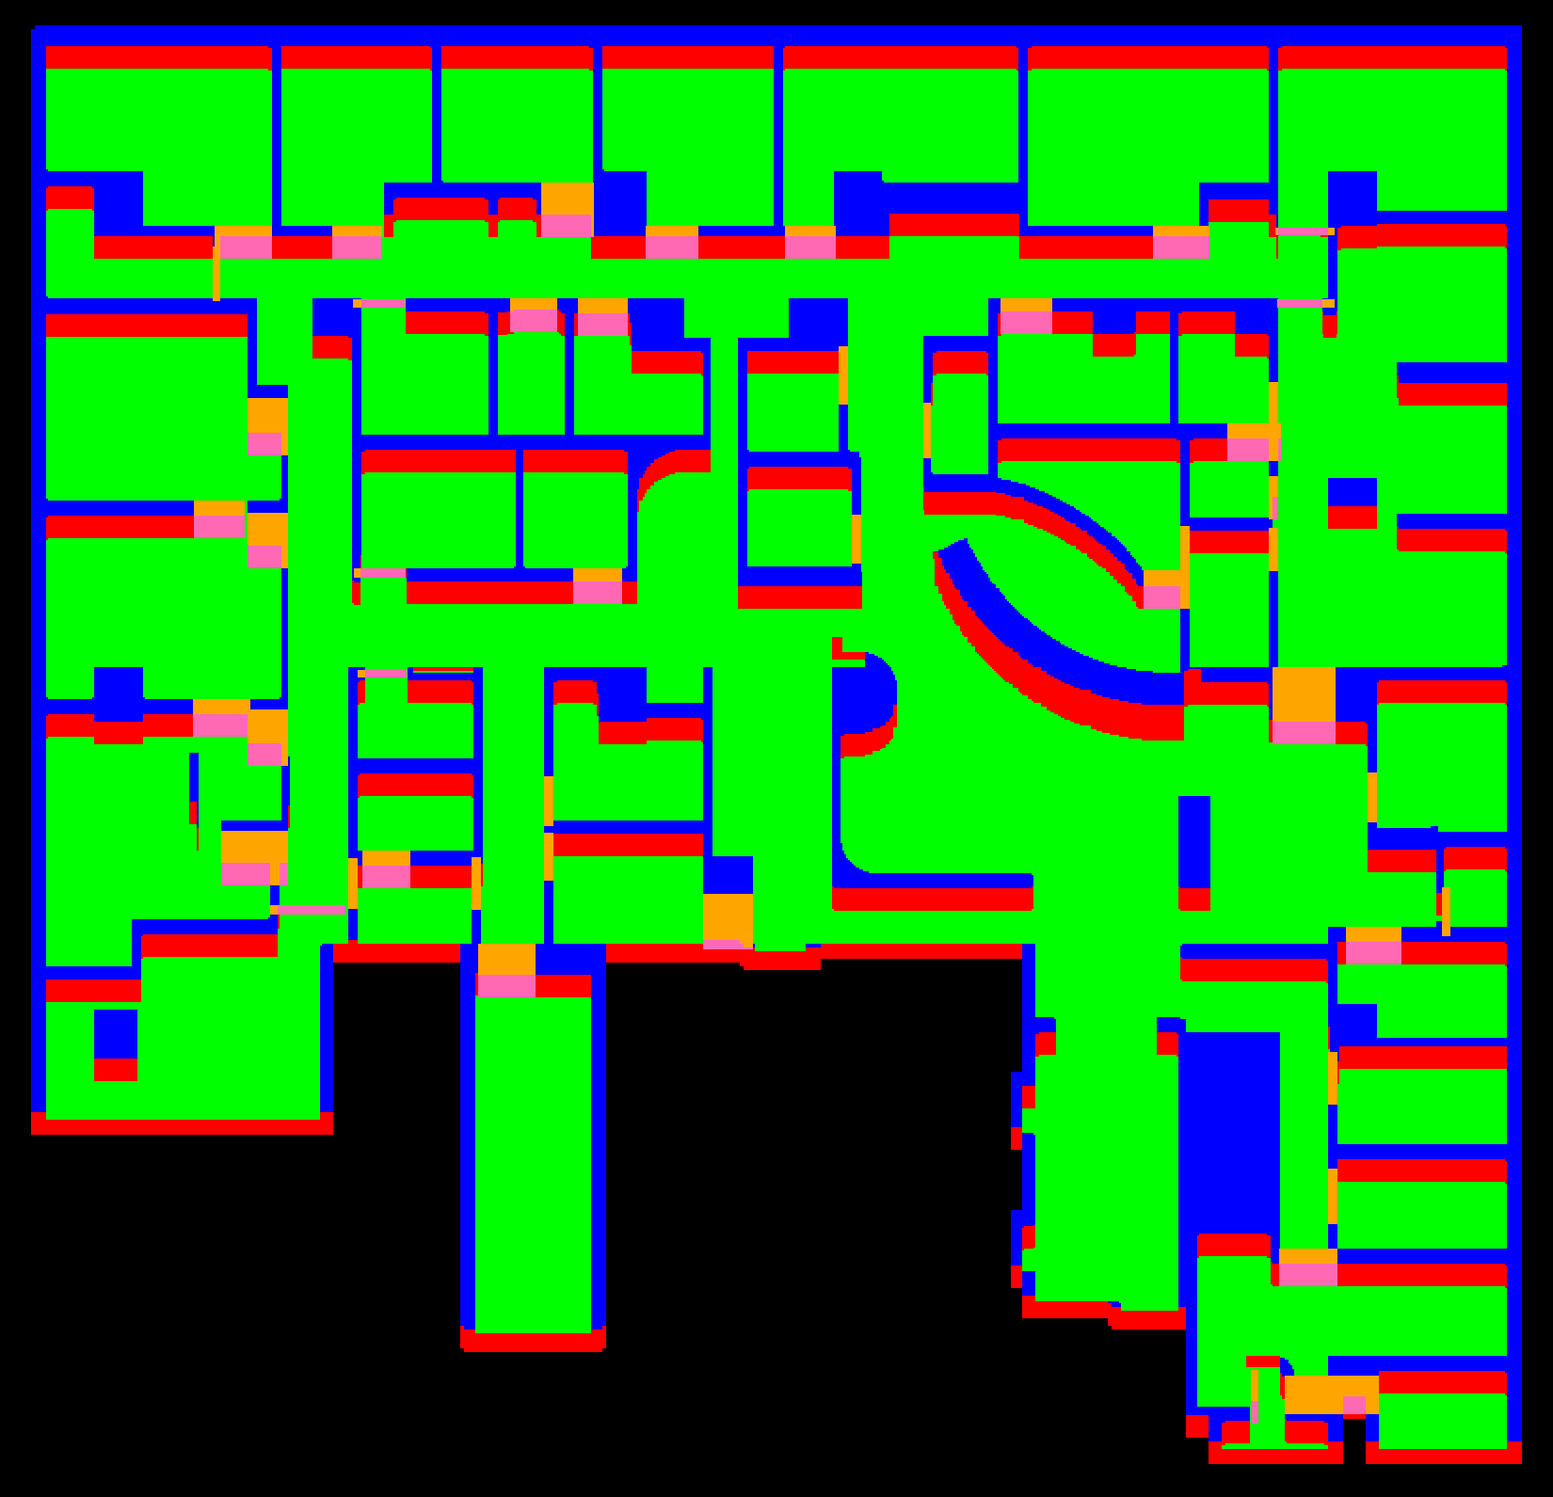
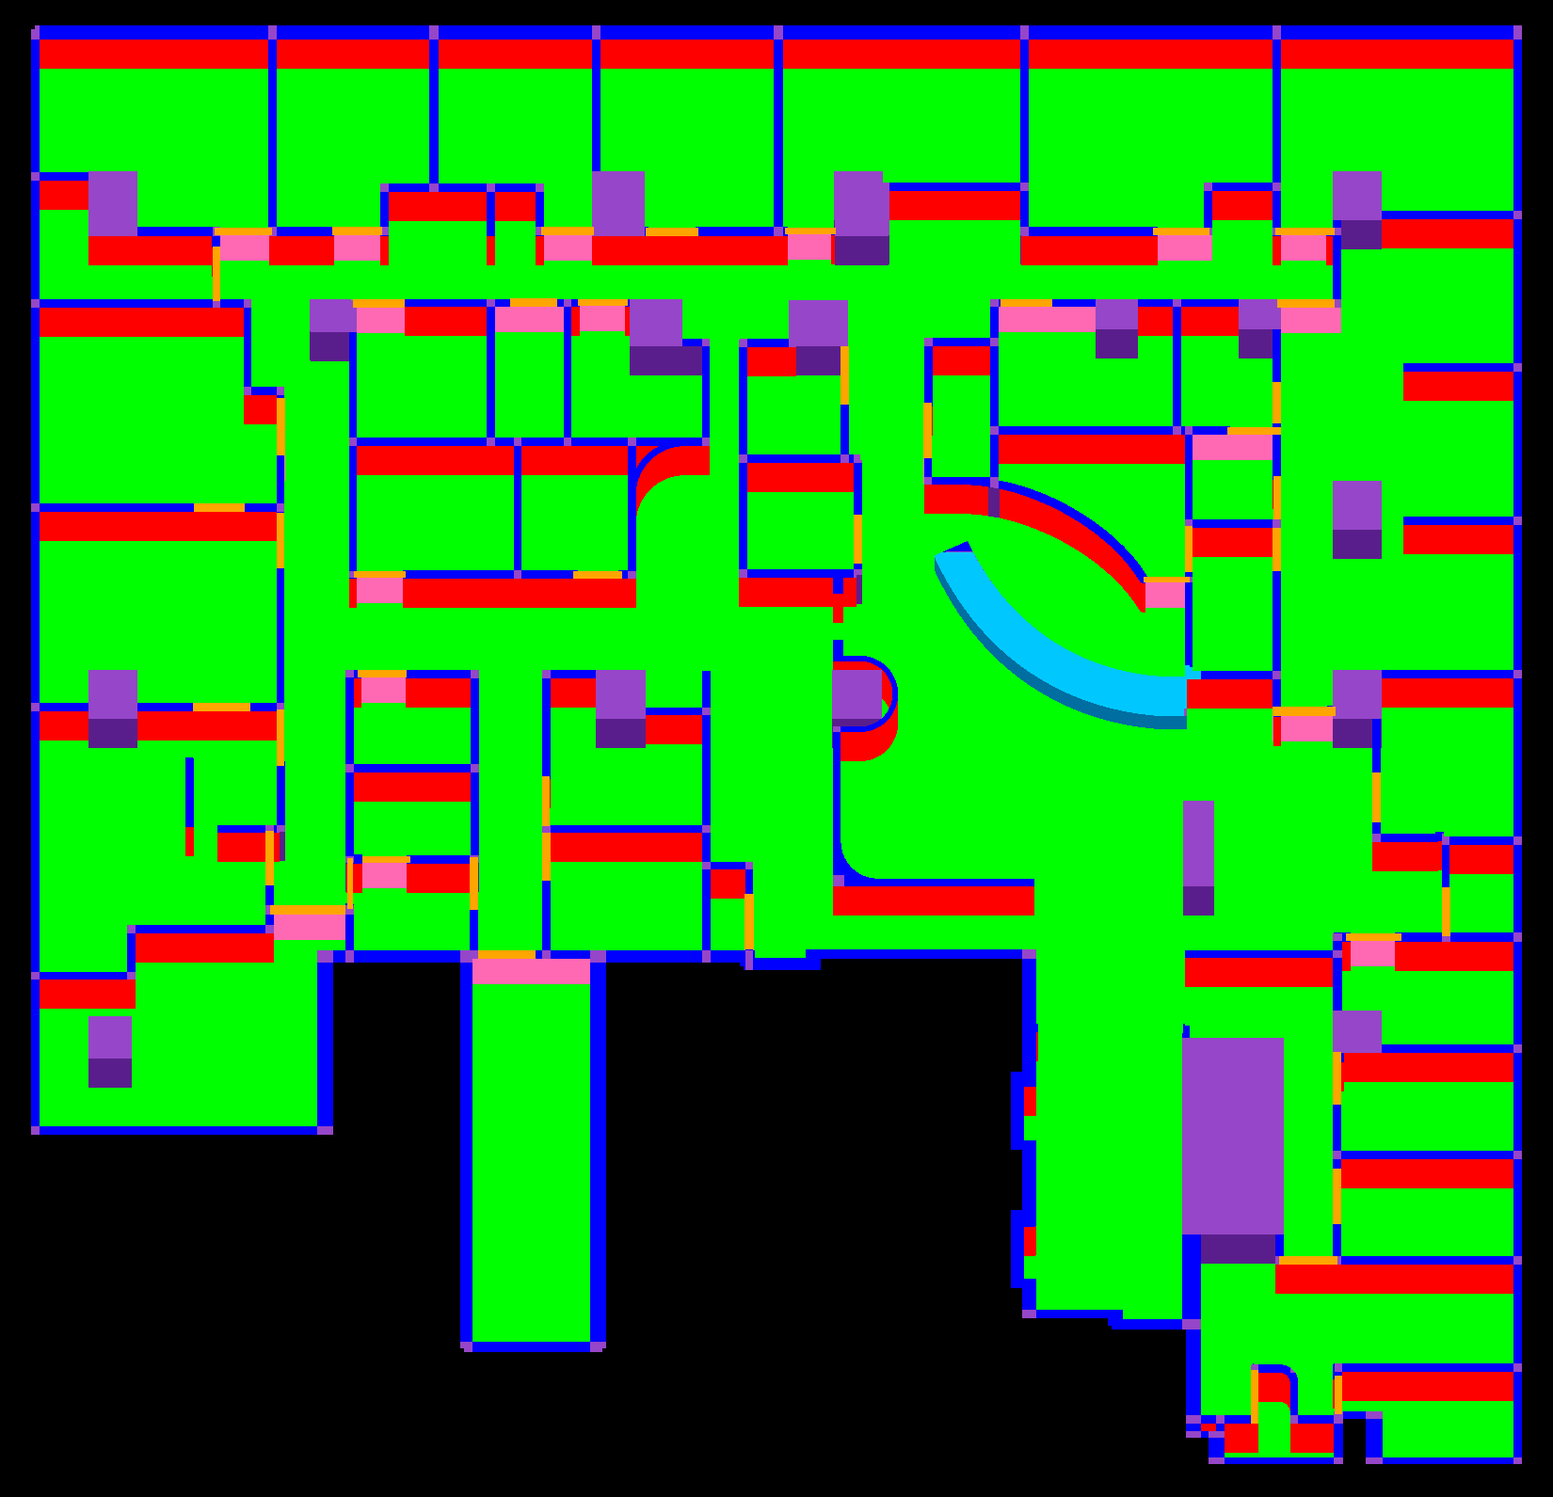
원내 색 지도를 우리 파이프라인 모델로 — 2D 도면에서 골조를 읽고 높이로 밀어낸다
tiling-map.png 은 손그림 2.5D(wall-mask.png, 벽 40px = 648mm)를 윗면/정면으로 갈라 쓰는
옛 모델이었다. blueprint-extract.py 가 쓰는 모델(깊이 = 높이 x 투영계수)과 달라서 같은
건물인데 두 도구가 다른 그림을 냈다.

plan-to-tiling.py: 벡터 PDF 대신 **2D 도면 래스터**를 입구로 쓴다. 레이어 분리(①)와 문
잇기(⑤)는 이미 끝나 있다 — floorplan-door.png 이 도면 + 사람이 칠한 빨강 문막대다.
그래서 ②③⑥⑦ 만 돈다. 방 판정 게이트는 그대로 두고 실패하면 exit 2.

⚠ 처음에 색으로 부류를 갈랐다가 틀렸다. 이 도면은 구조를 **어두운 외곽선 + 회색 채움**
으로 그린다. 회색을 샤프트로, 어두운 선을 벽으로 잡으니 **벽 속이 보라색**이 됐다 —
벽도 같은 방식으로 그려져 있다. 외곽선은 자기가 감싼 것에 속한다. 그래서 흰색이 아니면
다 골조로 묶고 ③의 두께 규칙으로 갈랐다.

고트의원 실측 (1650x1591, 16.2mm/px):
  ② 골조 11.5% 79m² (문 6m²)
  ③ 벽 49m² · 샤프트 21m² (500mm 초과) · 데스크 3m²
  ⑥ 방 39개 430m²  ← 손그림 마스크의 38개와 맞는다. 첫 실행에 게이트 통과
  ⑦ 벽 31px · 문 27px · 샤프트 31px · 데스크 14px

곡선 골조의 톱니가 사라졌다. 원인은 규칙이 아니라 입력이었다 — 손그림이 곡선 정면을
세로 획으로 그렸고, 2D 도면은 같은 자리를 매끈한 띠로 그린다. 도면을 입구로 쓰니 빗살
메우기(--close-slits)가 필요 없어졌다.

테스트 178개 통과. tiling-map.png 은 코드가 읽지 않는 산출물이라 런타임 영향 없다.

diff --git a/tools/plan-to-tiling.py b/tools/plan-to-tiling.py
@@ -1,0 +1,298 @@
+#!/usr/bin/env python3
+"""사람이 문까지 칠한 2D 도면 → 2.5D 색 지도. (`blueprint-extract.py` 의 ②~⑦ 를 래스터로)
+
+    python tools/plan-to-tiling.py                    # 원내 설정 폴더에 바로 쓴다
+    python tools/plan-to-tiling.py --dry-run --out-dir <폴더>
+
+## 이 도구가 서 있는 자리
+
+`blueprint-extract.py` 는 **벡터 PDF + CAD 레이어** 를 받아 ①레이어 분리부터 돈다. 이
+도구는 그 앞 두 단계(레이어 분리, 문 잇기)가 **이미 끝나 있을 때** 쓴다:
+
+    floorplan-door.png = 2D 도면 + 사람이 칠한 빨강 문막대(#ED1C24)
+
+즉 ⑤ 문 잇기를 사람이 손으로 확정한 상태다. 추측이 없으니 ②③⑥⑦ 만 돌리면 된다.
+
+## 왜 이 래스터는 받아도 되는가
+
+`blueprint-extract.py` 는 래스터를 **거부한다** — 스캔은 벽과 가구가 같은 얇은 선이라
+두께로 가릴 수 없고, 억지로 뽑으면 테두리와 기둥만 나온 그림이 그럴듯해서 한참 뒤에
+틀린 걸 발견한다(실제로 그랬다).
+
+이 파일은 스캔이 아니다. 벡터에서 뽑은 **색이 양자화된** 도면이라 골조와 바닥이 색으로
+정확히 갈린다:
+
+    흰 (255)         바닥 — 유일하게 비어 있는 색
+    그 밖의 모든 색   골조. 이 도면은 구조를 **어두운 외곽선 + 회색 채움**으로 그린다
+    빨강 (237,28,36) 문 — 사람이 칠한 것
+
+⚠ **외곽선과 채움을 색으로 가르면 안 된다.** 처음에 회색을 샤프트로, 어두운 선을 벽으로
+   잡았다가 벽 속이 보라색이 됐다 — 벽도 회색 채움에 어두운 외곽선이라 같은 규칙에 걸린다.
+   외곽선은 자기가 감싼 것에 속한다. 그래서 **흰색이 아니면 다 골조**로 묶고, 부류는
+   아래 ③에서 두께로 가른다 (`blueprint-extract.py` 와 같은 규칙).
+
+## 정면 깊이는 두께가 아니라 높이에서 나온다
+
+`wall-standards.json` 의 `heights` 를 쓴다. 146mm 가벽과 300mm 구조벽은 둘 다 천장까지
+올라가므로 겉보기 높이가 같다 — 두께 배수로 잡았다가 얇은 벽이 낮아져 갈아엎었다.
+
+    깊이 = 실제 높이(mm) x projectionFactor / mmPerPx
+
+## 게이트
+
+⑥ 방 판정이 실패하면(방이 1개 이하) **0 이 아닌 코드로 멈춘다.** 방이 갈라지지 않으면
+벽이나 문 어딘가가 새고 있다는 뜻이고, 그 상태로 2.5D 를 내면 틀린 그림이 그럴듯하게
+나온다. `floorplan-door.png` 에 빠진 문을 칠하고 다시 돌리는 게 순서다.
+"""
+import argparse
+import json
+import os
+import sys
+from collections import deque
+
+from PIL import Image
+
+ROOT = os.path.dirname(os.path.dirname(os.path.abspath(__file__)))
+CFG = os.path.join(ROOT, "packages", "server", "src", "config")
+STD = os.path.join(ROOT, "tools", "wall-standards.json")
+
+# 색표 — blueprint-extract.py 와 같은 값이어야 한다. 받는 쪽이 두 도구를 구분하지 않는다.
+FLOOR, TOP, FACE = (0, 255, 0), (0, 0, 255), (255, 0, 0)
+DTOP, DFACE = (255, 165, 0), (255, 105, 180)
+STOP, SFACE = (150, 70, 200), (90, 30, 140)
+FTOP, FFACE = (0, 200, 255), (0, 110, 160)
+OUT_C = (0, 0, 0)
+
+
+def is_red(p):
+    return p[0] > 140 and p[1] < 110 and p[2] < 110
+
+
+def flood_regions(bar, W, H, min_cells):
+    """막힌 것 밖에서 흘려 바깥을 찾고, 남은 빈칸을 방으로 센다. lab: 1=바깥 2+=방"""
+    lab = bytearray(W * H)
+    q = deque()
+    for x in range(W):
+        for y in (0, H - 1):
+            if not bar[y * W + x] and not lab[y * W + x]:
+                lab[y * W + x] = 1
+                q.append((x, y))
+    for y in range(H):
+        for x in (0, W - 1):
+            if not bar[y * W + x] and not lab[y * W + x]:
+                lab[y * W + x] = 1
+                q.append((x, y))
+    outside = 0
+    while q:
+        x, y = q.popleft()
+        outside += 1
+        for dx, dy in ((1, 0), (-1, 0), (0, 1), (0, -1)):
+            nx, ny = x + dx, y + dy
+            if 0 <= nx < W and 0 <= ny < H and not bar[ny * W + nx] and not lab[ny * W + nx]:
+                lab[ny * W + nx] = 1
+                q.append((nx, ny))
+    rooms, tag = [], 1
+    for y0 in range(H):
+        for x0 in range(W):
+            if bar[y0 * W + x0] or lab[y0 * W + x0]:
+                continue
+            tag += 1
+            q = deque([(x0, y0)])
+            lab[y0 * W + x0] = min(tag, 255)
+            n = 0
+            while q:
+                x, y = q.popleft()
+                n += 1
+                for dx, dy in ((1, 0), (-1, 0), (0, 1), (0, -1)):
+                    nx, ny = x + dx, y + dy
+                    if (0 <= nx < W and 0 <= ny < H and not bar[ny * W + nx]
+                            and not lab[ny * W + nx]):
+                        lab[ny * W + nx] = min(tag, 255)
+                        q.append((nx, ny))
+            if n >= min_cells:
+                rooms.append(n)
+    rooms.sort(reverse=True)
+    return outside, rooms, lab
+
+
+def main():
+    ap = argparse.ArgumentParser()
+    ap.add_argument("--config-dir", default=CFG, help="입력을 둘 폴더")
+    ap.add_argument("--out-dir", default=None, help="산출물을 둘 폴더 (기본 = --config-dir)")
+    ap.add_argument("--mm-per-px", type=float, default=16.2,
+                    help="축척. 기본 16.2 는 build-doors.py 의 CM_PER_PX 1.62 와 같다")
+    ap.add_argument("--solid-thr", type=int, default=230,
+                    help="이보다 어두우면 골조. 흰 바닥(255)과 회색 채움(153) 사이 아무 값")
+    ap.add_argument("--shaft-mm", type=float, default=500,
+                    help="두께가 이보다 두꺼우면 벽이 아니다 — 계단·엘리베이터 코어. "
+                         "wall-standards.json 의 벽 상한 400mm 에 여유를 준 값")
+    ap.add_argument("--min-room-m2", type=float, default=2.0,
+                    help="이보다 작은 빈칸은 방으로 세지 않는다")
+    ap.add_argument("--dry-run", action="store_true", help="tiling-map.png 을 쓰지 않는다")
+    args = ap.parse_args()
+    out_dir = args.out_dir or args.config_dir
+
+    h = json.load(open(STD, encoding="utf-8"))["heights"]
+    proj = h["projectionFactor"]
+    mmpx = args.mm_per_px
+
+    plan_p = os.path.join(args.config_dir, "floorplan-door.png")
+    out_p = os.path.join(args.config_dir, "outside-mask.png")
+    fur_p = os.path.join(args.config_dir, "furniture-mask.png")
+    for p in (plan_p, out_p):
+        if not os.path.exists(p):
+            sys.exit(f"입력이 없다: {p}")
+
+    plan = Image.open(plan_p).convert("RGB")
+    outside_im = Image.open(out_p).convert("L")
+    if plan.size != outside_im.size:
+        sys.exit(f"크기가 다르다: {plan.size} vs {outside_im.size}")
+    W, H = plan.size
+    pp, op = plan.load(), outside_im.load()
+    fur = None
+    if os.path.exists(fur_p):
+        f = Image.open(fur_p).convert("L")
+        if f.size != (W, H):
+            sys.exit(f"가구 마스크 크기가 다르다: {f.size} vs {(W, H)}")
+        fur = f.load()
+
+    # ── ② 골조 · ⑤ 문 — 흰색이 아니면 골조다. 외곽선/채움을 가르지 않는다 ────────
+    solid = bytearray(W * H)
+    door = bytearray(W * H)
+    for y in range(H):
+        for x in range(W):
+            i = y * W + x
+            if op[x, y] >= 128:          # 건물 밖 — 회색이 바깥에도 깔려 있어 먼저 뺀다
+                continue
+            p = pp[x, y]
+            if is_red(p):
+                door[i] = solid[i] = 1
+                continue
+            g = (p[0] * 299 + p[1] * 587 + p[2] * 114) // 1000
+            if g < args.solid_thr:
+                solid[i] = 1
+    area = lambda c: c * mmpx ** 2 / 1e6
+    print(f"[2] 골조 {sum(solid)*100/(W*H):.1f}% ({area(sum(solid)):.0f}m²) · "
+          f"문 {area(sum(door)):.0f}m² (사람이 칠한 것 — 추측 없음)")
+
+    # ── ③ 샤프트 분리 — 두께가 벽 상한을 넘으면 벽이 아니다 (blueprint-extract 와 같다) ──
+    #
+    # 두께 = min(가로연속, 세로연속). 가로 벽이면 세로연속이 두께이고 세로 벽이면 그 반대다.
+    # 두 값의 작은 쪽을 쓰면 방향을 안 물어도 된다.
+    hr, vr = bytearray(W * H), bytearray(W * H)
+    for y in range(H):
+        x = 0
+        while x < W:
+            if not solid[y * W + x]:
+                x += 1
+                continue
+            s0 = x
+            while x < W and solid[y * W + x]:
+                x += 1
+            L = min(x - s0, 255)
+            for i in range(s0, x):
+                hr[y * W + i] = L
+    for x in range(W):
+        y = 0
+        while y < H:
+            if not solid[y * W + x]:
+                y += 1
+                continue
+            s0 = y
+            while y < H and solid[y * W + x]:
+                y += 1
+            L = min(y - s0, 255)
+            for i in range(s0, y):
+                vr[i * W + x] = L
+    lim = args.shaft_mm / mmpx
+    wall, shaft, desk = bytearray(W * H), bytearray(W * H), bytearray(W * H)
+    for i in range(W * H):
+        if not solid[i] or door[i]:
+            continue
+        thick = min(hr[i], vr[i])
+        if fur and fur[i % W, i // W] >= 128:
+            desk[i] = 1
+        elif thick > lim:
+            shaft[i] = 1
+        else:
+            wall[i] = 1
+    print(f"[3] 벽 {area(sum(wall)):.0f}m² · 샤프트 {area(sum(shaft)):.0f}m² "
+          f"(두께 {args.shaft_mm:.0f}mm 초과) · 데스크 {area(sum(desk)):.0f}m²")
+
+    # ── ⑥ 방 판정 게이트 ─────────────────────────────────────────────────────
+    bar = solid
+    _, rooms, lab = flood_regions(bar, W, H, int(args.min_room_m2 * 1e6 / mmpx ** 2))
+    print(f"[6] 방 {len(rooms)}개 · 방면적 {area(sum(rooms)):.0f}m²")
+    if rooms:
+        print("      큰 방: " + ", ".join(f"{area(s):.0f}" for s in rooms[:10]) + " m²")
+    if len(rooms) <= 1:
+        print("\n[중단] 방 판정 실패 — 방이 갈라지지 않았다.")
+        print("   floorplan-door.png 에 빠진 문을 #ED1C24 로 칠하고 다시 돌릴 것.")
+        sys.exit(2)
+
+    # ── ⑦ 2.5D — 깊이는 높이 x 투영계수 (두께가 아니다) ──────────────────────
+    depth_of = lambda mm: max(1, int(round(mm * proj / mmpx)))
+    KIND = {
+        "door": (DTOP, DFACE, depth_of(h["doorMm"])),
+        "desk": (FTOP, FFACE, depth_of(h["furnitureMm"])),
+        "shaft": (STOP, SFACE, depth_of(h.get("shaftMm", h["ceilingMm"]))),
+        "wall": (TOP, FACE, depth_of(h["ceilingMm"])),
+    }
+    cls = [None] * (W * H)
+    for i in range(W * H):
+        cls[i] = ("door" if door[i] else "desk" if desk[i]
+                  else "shaft" if shaft[i] else "wall" if wall[i] else None)
+    tile = Image.new("RGB", (W, H), OUT_C)
+    tp = tile.load()
+    for y in range(H):
+        for x in range(W):
+            i = y * W + x
+            k = cls[i]
+            tp[x, y] = KIND[k][0] if k else OUT_C if op[x, y] >= 128 else FLOOR
+
+    # 남쪽 경계의 연속 구간을 **한 조각**으로 보고 조각마다 색·깊이를 하나 정한다.
+    # 픽셀별로 고르면 접합부에서 정면이 톱니가 된다.
+    for y in range(H):
+        x = 0
+        while x < W:
+            if not (bar[y * W + x] and (y + 1 >= H or not bar[(y + 1) * W + x])):
+                x += 1
+                continue
+            s0 = x
+            while x < W and bar[y * W + x] and (y + 1 >= H or not bar[(y + 1) * W + x]):
+                x += 1
+            run = range(s0, x)
+            n = {}
+            for i in run:
+                k = cls[y * W + i]
+                n[k] = n.get(k, 0) + 1
+            _, col, depth = KIND[max(n, key=lambda k: n[k])]
+            for i in run:
+                for yy in range(y + 1, min(H, y + 1 + depth)):
+                    j = yy * W + i
+                    if not bar[j] and op[i, yy] < 128:
+                        tp[i, yy] = col
+    lines = [f"[7] 2.5D · " + " · ".join(
+        f"{k} {KIND[k][2]}px" for k in ("wall", "door", "shaft", "desk"))]
+    from collections import Counter
+    cnt = Counter(tile.get_flattened_data())
+    tot = W * H
+    NAME = {FLOOR: "초록 바닥", TOP: "파랑 벽윗면", FACE: "빨강 벽정면",
+            DTOP: "주황 문윗면", DFACE: "핫핑크 문정면", STOP: "보라 샤프트윗면",
+            SFACE: "진보라 샤프트정면", FTOP: "하늘 데스크윗면", FFACE: "감청 데스크정면",
+            OUT_C: "검정 건물밖"}
+    for c, k in sorted(cnt.items(), key=lambda kv: -kv[1]):
+        lines.append(f"      {NAME.get(c, str(c)):<18} {k:9,}px ({k/tot*100:5.2f}%)")
+    print("\n".join(lines))
+
+    if args.dry_run:
+        print("\n--dry-run — 쓰지 않았다")
+        return
+    dst = os.path.join(out_dir, "tiling-map.png")
+    tile.save(dst)
+    print(f"\nsaved {dst}")
+    print("[통과] 방 판정 게이트")
+
+
+if __name__ == "__main__":
+    main()

diff --git a/README.md b/README.md
@@ -174,15 +174,21 @@ python tools/build-walkable.py                          # 2. 통행 격자 + 그
 python tools/build-staff-areas.py                       # 3. 손님 통제구역 마스크
 python tools/build-doors.py                             # 4. 문 위치
 python tools/build-rooms.py                             # 5. 방 분할 + 복도 마스크
-python tools/build-tiling-map.py --desk-face 38        # 6. 에셋 배치용 색 지도
+python tools/plan-to-tiling.py                         # 6. 에셋 배치용 색 지도 (2D 도면 기준)
+python tools/build-tiling-map.py --desk-face 38        # 6'. (구) 손그림 2.5D 기준
 python tools/build-pixel-map.py "<Modern tiles_Free 폴더>"  # 7. 환자용 도트맵
 python tools/build-door-map.py                          # 8. 문 2.5D 레이어
 node tools/copy-demo-config.mjs                         # 9. 시연 배포용 사본
 npm run check:walls                                     # 10. 벽 판정 검사
 ```
 
-⚠ **6번의 `--desk-face 38` 은 빼면 안 된다.** 기본값 8 로 돌리면 곡선 데스크의 상판이
-사라지고 커밋된 지도와 8,354px 어긋난다 (`build-maps.py` 는 이 값을 넘겨 준다).
+⚠ **6번과 6'번은 입력이 다르다.** `plan-to-tiling.py` 는 **2D 도면**(`floorplan-door.png`)
+에서 골조를 읽고 높이×투영계수로 정면을 밀어낸다 — `blueprint-extract.py` 와 같은 모델이다.
+`build-tiling-map.py` 는 **손그림 2.5D**(`wall-mask.png`, 벽이 40px = 648mm 로 두껍다)에서
+그 두께를 윗면/정면으로 갈라 쓴다. 지금 커밋된 지도는 6번 산출물이다.
+
+⚠ **6'번의 `--desk-face 38` 은 빼면 안 된다.** 기본값 8 로 돌리면 곡선 데스크의 상판이
+사라진다 (`build-maps.py` 는 이 값을 넘겨 준다).
 
 ⚠ **마스크를 직접 받았으면 `build-wall-mask.py` 를 돌리면 안 된다.** 그건 `wall.png` 에서
 마스크를 **생성**하는 쪽이라 받은 마스크를 통째로 덮어쓴다. 그때는 `normalize-wall-mask.py`

diff --git a/docs/도면_자동화_파이프라인.md b/docs/도면_자동화_파이프라인.md
@@ -95,6 +95,35 @@ walkable + zones                      ──copy-demo-config──> 프론트 pu
 
 ---
 
+## 4'. 2D 도면이 이미 있고 문까지 칠했다면 — `plan-to-tiling.py`
+
+`blueprint-extract.py` 는 벡터 PDF + CAD 레이어를 받아 ①부터 돈다. 그런데 **2D 도면
+래스터가 있고 문을 사람이 칠해 놨다면** ①레이어 분리와 ⑤문 잇기는 이미 끝난 상태다.
+그때는 ②③⑥⑦ 만 돌린다.
+
+```bash
+python tools/plan-to-tiling.py            # floorplan-door.png → tiling-map.png
+python tools/plan-to-tiling.py --dry-run  # 숫자만 보고 쓰지 않기
+```
+
+**왜 이 래스터는 받아도 되는가.** 벡터에서 뽑아 색이 양자화된 도면이라 골조와 바닥이
+색으로 정확히 갈린다 — 흰색(255)이 바닥이고 나머지가 다 골조다. 스캔처럼 두께를 재서
+"이건 벽일 것이다" 를 추측하는 대목이 없다.
+
+⚠ **외곽선과 채움을 색으로 가르면 안 된다.** 이 도면은 구조를 *어두운 외곽선 + 회색
+채움*으로 그린다. 회색을 샤프트로, 어두운 선을 벽으로 잡았다가 **벽 속이 보라색**이
+됐다 — 벽도 같은 방식으로 그려져 있기 때문이다. 외곽선은 자기가 감싼 것에 속한다.
+그래서 흰색이 아니면 다 골조로 묶고, 부류는 ③의 두께 규칙으로 가른다.
+
+고트의원 실측 (1650×1591, 16.2mm/px):
+
+| 단계 | 결과 |
+|---|---|
+| ② 골조 | 11.5% · 79m² (문 6m² 는 사람이 칠한 것) |
+| ③ 두께 분리 | 벽 49m² · 샤프트 21m² (500mm 초과) · 데스크 3m² |
+| ⑥ 방 판정 (게이트) | **39개 · 430m²** — 손그림 마스크의 38개와 맞는다 |
+| ⑦ 2.5D | 벽 31px · 문 27px · 샤프트 31px · 데스크 14px |
+
 ## 5. 에셋 배치용 색 지도 (`tiling-map.png`)
 
 AI·스크립트가 타일과 벽 에셋을 자동으로 깔 수 있게 **의미만 남긴 이미지**다.
